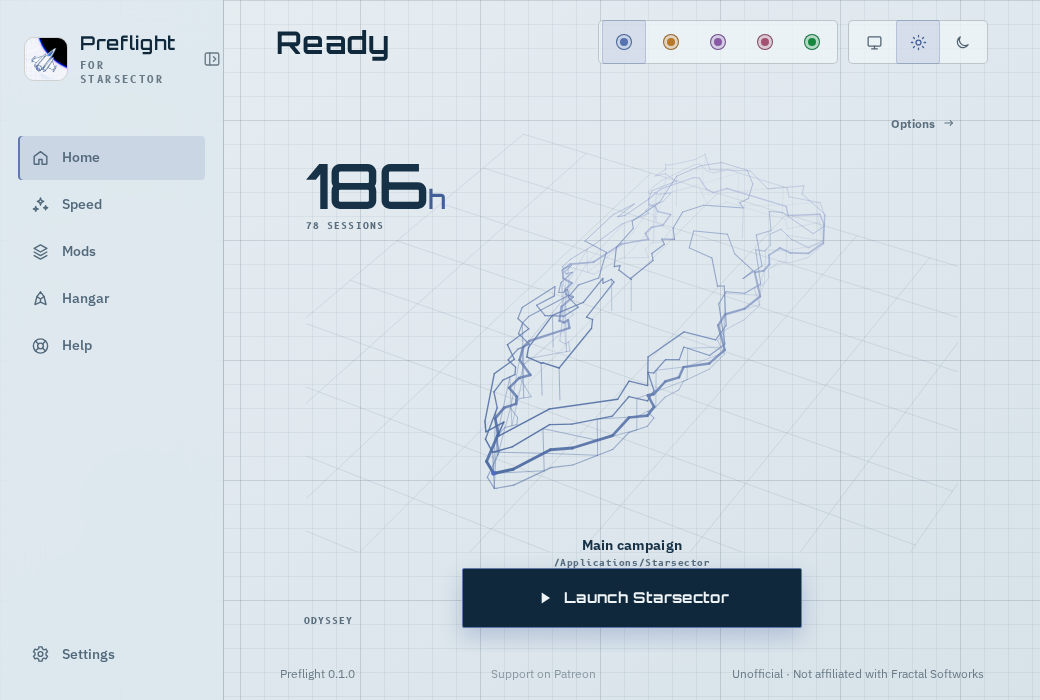
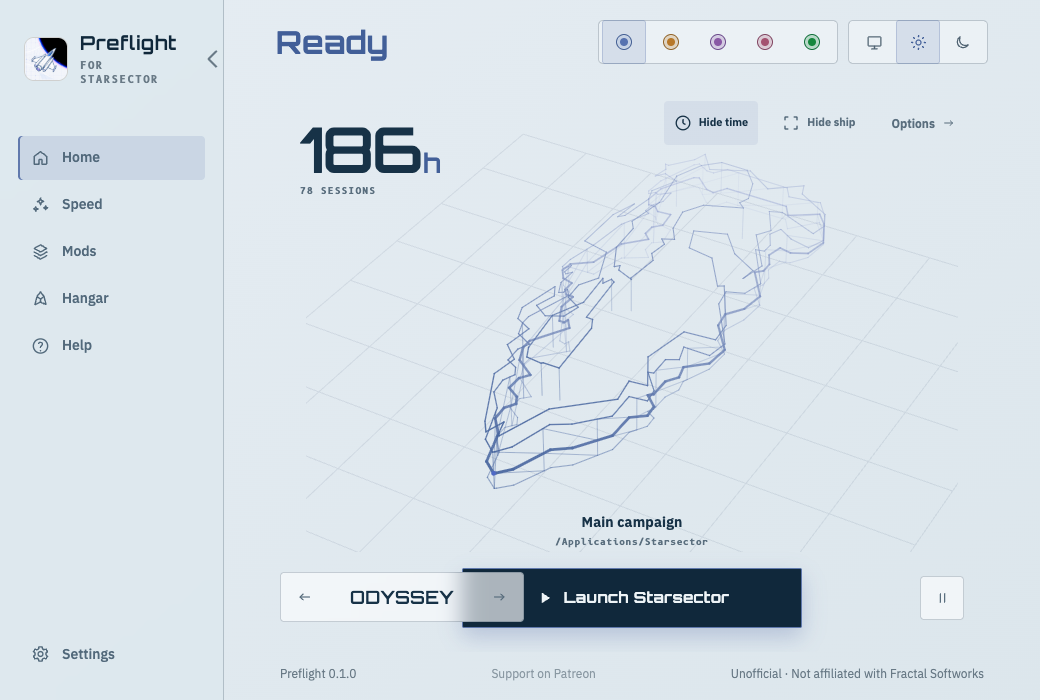
Refresh canonical screenshots after Home controls

diff --git a/scripts/verify_source_boundary.py b/scripts/verify_source_boundary.py
@@ -37,6 +37,7 @@ REVIEWED_DOCUMENTATION_IMAGES = {
             (61_109, "6b8308d1b71cb8e85a350bfb6d31956c51556ee5"),
             (56_247, "ca01e532a00e804e5cca00c6f85028ab81b0fbdb"),
             (311_930, "cc60150e4eab29122b717b3dc2c3cbcbdd239111"),
+            (276_824, "f1d0360b221694c0fc233c31fe5b1e2fa28d2800"),
         }
     ),
     "docs/images/desktop-home-light.png": frozenset(
@@ -44,6 +45,7 @@ REVIEWED_DOCUMENTATION_IMAGES = {
             (64_418, "1c4517a2161186f34a79ea9fffa66db79f28f167"),
             (62_880, "a042bb65181efe99c41e2f7132a96f6ec8ca9c4e"),
             (342_496, "fea75bae343a0352cc5ee7d11c60218289645f0e"),
+            (225_729, "8e2cd80e328c2a6d00f11ea4df7df6b42017a405"),
         }
     ),
     "docs/images/desktop-profiles-light.png": frozenset(
@@ -51,6 +53,7 @@ REVIEWED_DOCUMENTATION_IMAGES = {
             (59_424, "b206041df4ee61123b3a6a47b492270bbcae4ac6"),
             (56_409, "4402dd545b806b5667f442e7370bfa3b3f3f8cf9"),
             (226_973, "056ce6773da636d6d98b261f9b347a7b2a7099e0"),
+            (145_567, "7c01323ab0b7f55d6b9387ca674458353f54f225"),
         }
     ),
     "docs/images/walkthrough-benchmark.png": frozenset(
@@ -58,6 +61,7 @@ REVIEWED_DOCUMENTATION_IMAGES = {
             (56_692, "69fb4cf05512f189151cf1e0f58085a6be6162fe"),
             (56_508, "b36aa4e523f1f850179093388f5ea38a18deb066"),
             (231_566, "304629870fc89b19b0a913efa70df4beb131c7be"),
+            (135_908, "3cc5d7a2a7fcf7d6054040dc64e067a6380f710c"),
         }
     ),
     "docs/images/walkthrough-ready.png": frozenset(
@@ -65,6 +69,7 @@ REVIEWED_DOCUMENTATION_IMAGES = {
             (61_105, "7e413e9e2e55678192dd4c9f5a04673fc20f4cfa"),
             (56_016, "e8676673464db9e897c831e69813bb08d7bb83c4"),
             (213_139, "57e61befeba4174c4ef2dd5a454623248200cbfa"),
+            (125_297, "7d87378f447f9e9532ef214d1d636280199e0922"),
         }
     ),
     "docs/images/walkthrough-setup.png": frozenset(
@@ -72,6 +77,7 @@ REVIEWED_DOCUMENTATION_IMAGES = {
             (50_674, "f41cfd715b7129a3439e3d3deb9e8886d52e90fd"),
             (49_295, "2922b4b63d94ac7a3f1eaca5adc886914199deb1"),
             (188_622, "c606b45a65933bb5ff35dc792bbd19ccc80936d3"),
+            (124_928, "44c2f93da0cf6846cb6325b41c402fcbc565df92"),
         }
     ),
 }

diff --git a/preflight-desktop/scripts/capture-doc-screenshots.py b/preflight-desktop/scripts/capture-doc-screenshots.py
@@ -87,6 +87,10 @@ def open_preview(
         window.localStorage.setItem("preflight.sidebar", "expanded");
         """
     )
+    # Chromium asks for a conventional favicon even though the packaged Tauri frontend does not
+    # use one. Keep that browser-owned request out of the artifact server so a missing favicon
+    # cannot masquerade as a product console failure.
+    context.route("**/favicon.ico", lambda route: route.fulfill(status=204, body=""))
     page = context.new_page()
     errors: list[str] = []
     page.on("pageerror", lambda error: errors.append(f"page error: {error}"))

diff --git a/docs/evidence/2026-08-24-canonical-ui-screenshots.md b/docs/evidence/2026-08-24-canonical-ui-screenshots.md
@@ -1,0 +1,52 @@
+# Canonical UI screenshots: 2026-08-24
+
+This note binds the six public screenshots to the accepted frontend after #1105 made the Home ship,
+time, motion, and support controls direct and responsive.
+
+## Accepted frontend source
+
+- accepted `main`: `035102f092a134ede9fb9ebc74319db8a1c42a63`;
+- accepted tree: `19399e879b65c85125f91d88d1851a2480f55907`;
+- equivalent reviewed PR head/tree: `15950d7d8ea403043fb3cb394e71848758e63aa9` / `19399e879b65c85125f91d88d1851a2480f55907`;
+- Source Boundary run: `32652729425`, success;
+- CI run: `32652729641`, success;
+- Desktop application run: `32652729519`, success;
+- frontend artifact: `preflight-desktop-frontend-32652729519` / `9496639767`;
+- artifact digest: `sha256:35b565e96486fb6b20f96967821ca058182a78a8a837e0aff95bd8524b570bc2`.
+
+The artifact's internal manifest verified nine files and 718,186 bytes before capture. The accepted
+`main` tree and reviewed PR-head tree are identical. The screenshot carrier changes only the
+documentation images, their reviewed source-boundary identities, and the capture helper.
+
+## Canonical capture set
+
+| Image | State | Window | Theme |
+| --- | --- | --- | --- |
+| `docs/images/desktop-home-light.png` | settled Home | 1040×700 | Blueprint / light |
+| `docs/images/desktop-home-dark.png` | settled Home | 1040×700 | Blueprint / dark |
+| `docs/images/desktop-profiles-light.png` | Mods / saved profiles | 1040×700 | Blueprint / light |
+| `docs/images/walkthrough-setup.png` | no installation selected | 720×560 | Blueprint / light |
+| `docs/images/walkthrough-ready.png` | settled Home | 720×560 | Blueprint / light |
+| `docs/images/walkthrough-benchmark.png` | Benchmark before a run | 1040×700 | Blueprint / light |
+
+The browser context fixes locale, timezone, theme, palette, device scale, and reduced motion. It
+waits for the page's actual target controls, rejects page and console errors, and captures only the
+viewport. Chromium's implicit `/favicon.ico` request is answered inside the capture context because
+the packaged Tauri frontend neither requests nor ships a browser favicon. Product resource errors
+still fail the capture.
+
+## Captured image identities
+
+| Image | Pixels | Bytes | SHA-256 |
+| --- | ---: | ---: | --- |
[6 lines of base64/hex data omitted]
+
+All six images were inspected at original resolution. The settled Home captures show the accepted
+ship selector, playtime and ship visibility controls, launch action, installation identity, and
+motion control. The minimum-window captures remain contained at 720×560. The benchmark image stays
+in its pre-run state, so fixture timing cannot be mistaken for a measured result.

diff --git a/docs/evidence/2026-08-21-canonical-ui-screenshots.md b/docs/evidence/2026-08-21-canonical-ui-screenshots.md
@@ -1,5 +1,9 @@
 # Canonical UI screenshots — 2026-08-21
 
+Superseded by the [2026-08-24 refresh](2026-08-24-canonical-ui-screenshots.md) after the accepted
+Home, Hangar, Speed, and Help controls changed in #1105. The identities below remain the record for
+the earlier public set.
+
 This note binds the README/walkthrough screenshot refresh owned by #1000 to the accepted combined desktop frontend after the final defrumping/accessibility pass.
 
 ## Accepted frontend source

diff --git a/docs/release-readiness.md b/docs/release-readiness.md
@@ -100,6 +100,7 @@ The detailed evidence remains in the linked documents and dated `docs/evidence/`
 Useful current references:
 
 - [Startup benchmark](startup-benchmark.md)
+- [Canonical UI screenshots](evidence/2026-08-24-canonical-ui-screenshots.md)
 - [Cross-platform evidence plan](cross-platform-evidence-plan.md)
 - [Package lifecycle rehearsal](package-lifecycle-rehearsal.md)
 - [Packaged report canary](evidence/2026-08-08-packaged-report-canary.md)
